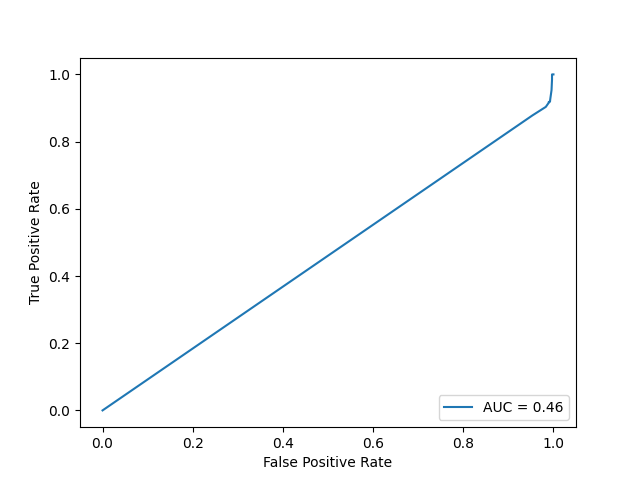
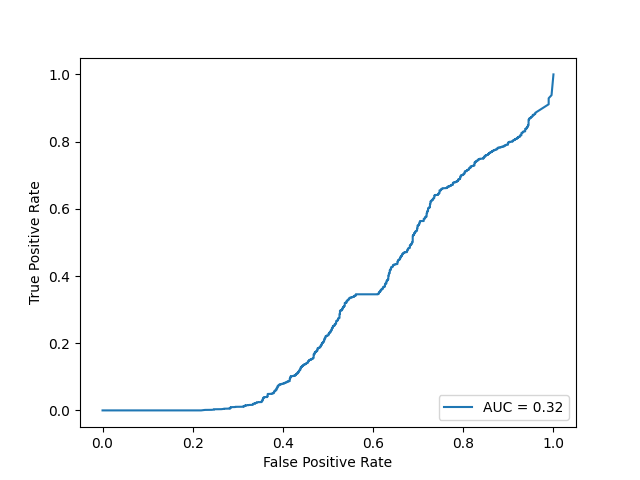
ODIN with Temp=1000

diff --git a/polycraft_nov_det/baselines/odin.py b/polycraft_nov_det/baselines/odin.py
@@ -6,7 +6,7 @@ from polycraft_nov_det.model_utils import load_vgg_model
 
 
 class OdinDetector(NoveltyDetector):
-    def __init__(self, model_path, device="cpu", temp=1, noise=.0014):
+    def __init__(self, model_path, device="cpu", temp=1000, noise=.0014):
         super().__init__(device)
         self.model = load_vgg_model(model_path, device).to(device).eval()
         self.temp = temp
